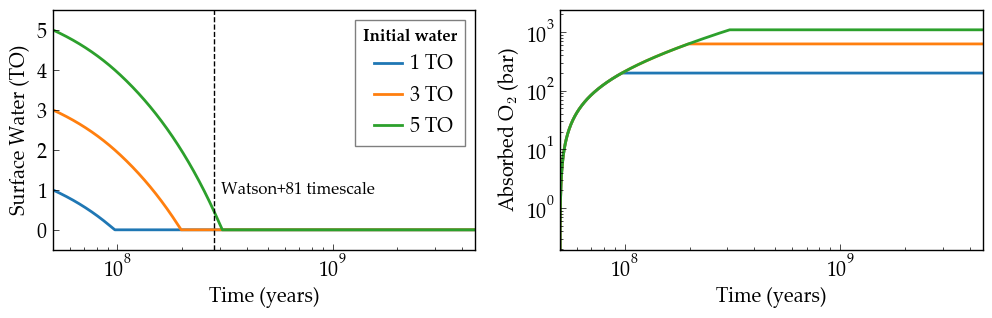
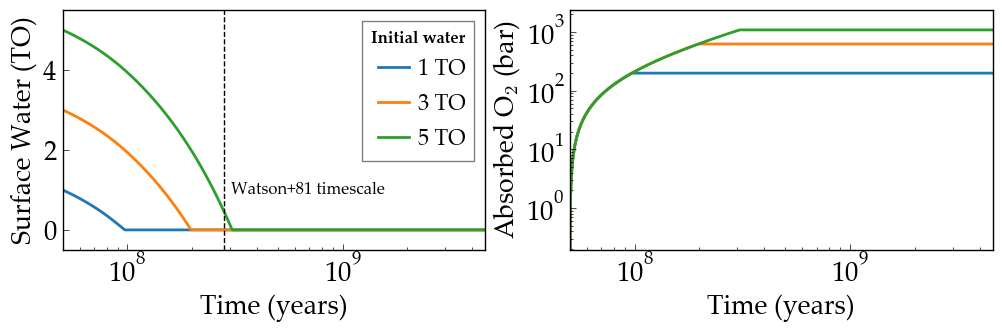
Tidied examples/VenusWaterLoss figure.

Changed region(s): [[0.0, 0.0283, 1.0, 0.8774], [0.6875, 0.8774, 0.875, 0.9623], [0.1875, 0.8774, 0.3438, 0.9623]]

diff --git a/examples/VenusWaterLoss/makeplot.py b/examples/VenusWaterLoss/makeplot.py
@@ -5,6 +5,8 @@ import numpy as np
 import vplot as vpl
 import sys
 
+pl.rcParams.update({'font.size':16,'legend.fontsize':16})
+
 # Check correct number of arguments
 if (len(sys.argv) != 2):
     print('ERROR: Incorrect number of arguments.')
